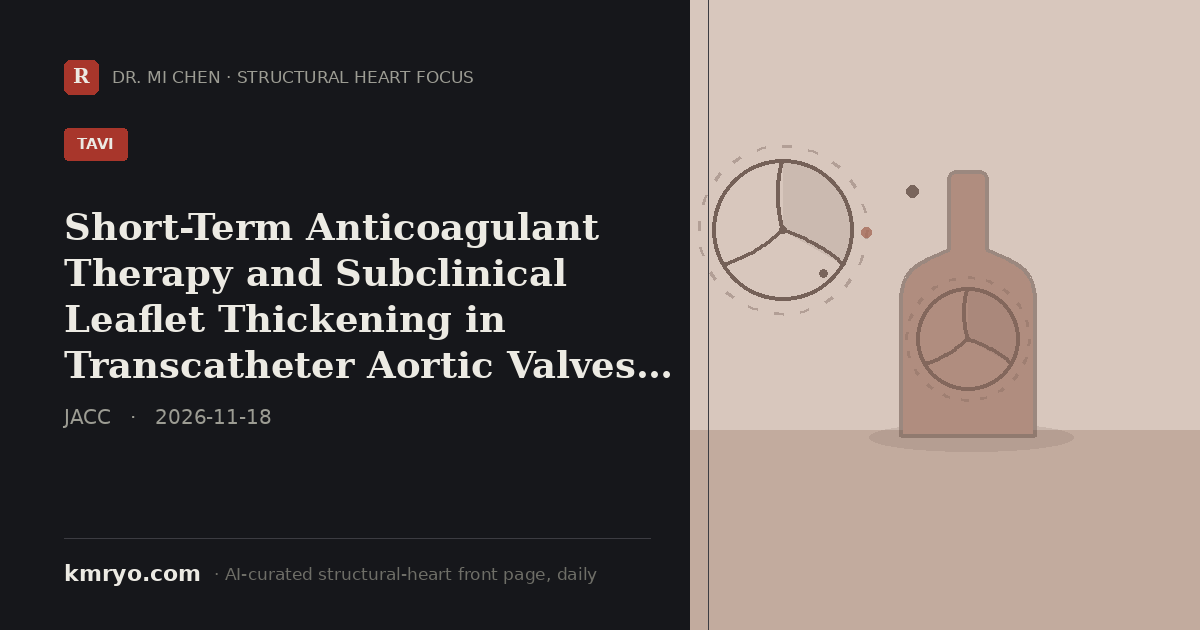
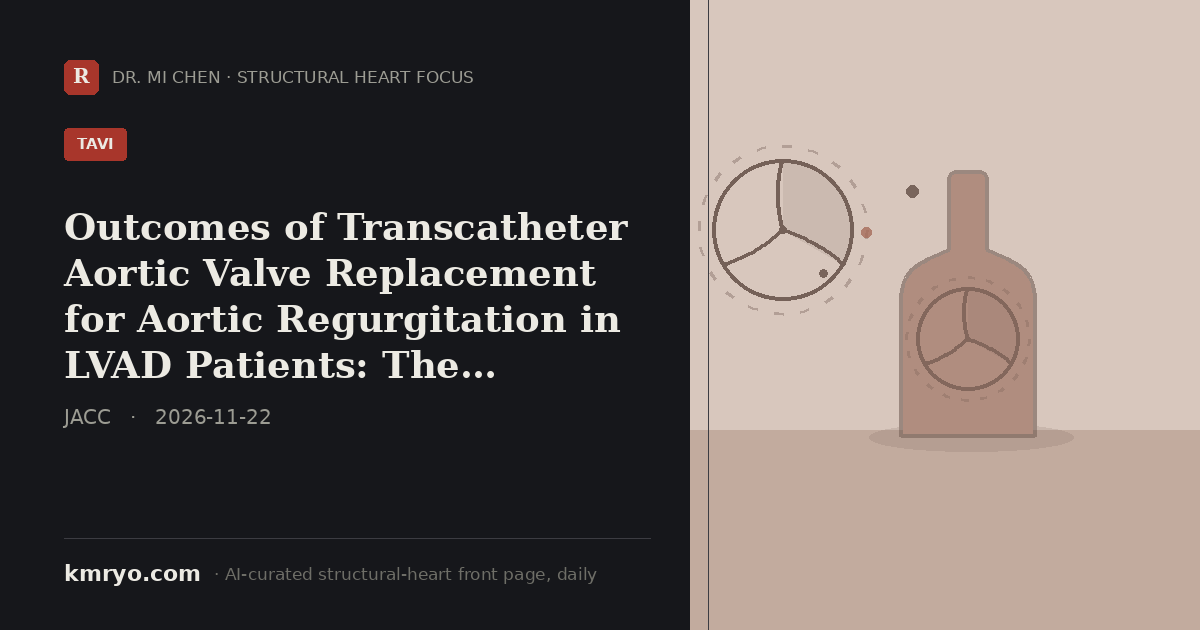
pulse: 2026-11-22 daily update
Claude-Session: https://claude.ai/code/session_01VwCofkUWpXQFWmRaN4fzv7

Changed region(s): [[0.0308, 0.3317, 0.555, 0.6032]]

diff --git a/index.html b/index.html
@@ -6,8 +6,8 @@
 <title>Structural Heart Focus — Daily | Dr. Mi Chen</title>
 <meta name="description" content="Structural Heart Focus — the day's most important structural-heart reading (top journals, major meetings and the field's conversation), curated daily by an AI agent from inside the Zurich hybrid room. By Dr. Mi Chen.">
 <!-- Social share card. Regenerated daily by the pulse agent (pulse/make_share_card.py); og:title/description updated to the day's top story so LinkedIn/WeChat/X show today's headline, not a static portrait. -->
-<meta property="og:title" content="Short-Term Anticoagulant Therapy and Subclinical Leaflet Thickening in Transcatheter Aortic Valves: The NOTION-4 Trial">
-<meta property="og:description" content="NOTION-4: a 3-month DOAC course after TAVR cuts subclinical leaflet thickening (HALT) at 3 months vs antiplatelet therapy, but the benefit largely fades by 9 months once the DOAC is stopped.">
+<meta property="og:title" content="Outcomes of Transcatheter Aortic Valve Replacement for Aortic Regurgitation in LVAD Patients: The JENA-VAD Study">
+<meta property="og:description" content="JENA-VAD: in 50 LVAD patients with severe aortic regurgitation, JenaValve's Trilogy TAVR achieved 96% technical and 30-day device success with no deaths or strokes, though HALT or valve thrombosis occurred in 22%.">
 <meta property="og:image" content="https://www.kmryo.com/pulse/img/share/card.png">
 <meta property="og:image:width" content="1200">
 <meta property="og:image:height" content="630">
@@ -16,8 +16,8 @@
 <meta property="og:type" content="website">
 <meta property="og:site_name" content="kmryo.com · Structural Heart Focus">
 <meta name="twitter:card" content="summary_large_image">
-<meta name="twitter:title" content="Short-Term Anticoagulant Therapy and Subclinical Leaflet Thickening in Transcatheter Aortic Valves: The NOTION-4 Trial">
-<meta name="twitter:description" content="NOTION-4: a 3-month DOAC course after TAVR cuts subclinical leaflet thickening (HALT) at 3 months vs antiplatelet therapy, but the benefit largely fades by 9 months once the DOAC is stopped.">
+<meta name="twitter:title" content="Outcomes of Transcatheter Aortic Valve Replacement for Aortic Regurgitation in LVAD Patients: The JENA-VAD Study">
+<meta name="twitter:description" content="JENA-VAD: in 50 LVAD patients with severe aortic regurgitation, JenaValve's Trilogy TAVR achieved 96% technical and 30-day device success with no deaths or strokes, though HALT or valve thrombosis occurred in 22%.">
 <meta name="twitter:image" content="https://www.kmryo.com/pulse/img/share/card.png">
[1 lines of base64/hex data omitted]
 <link rel="preconnect" href="https://fonts.googleapis.com">
